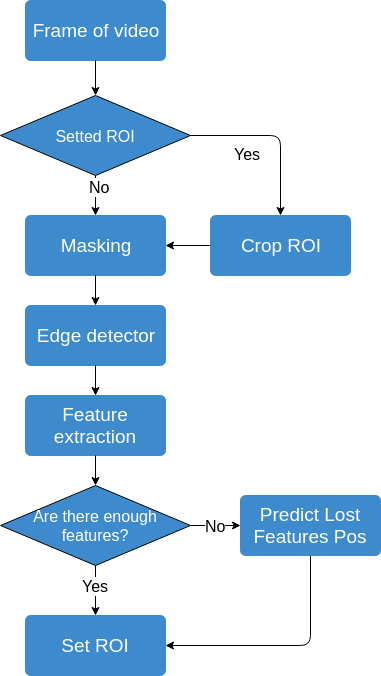
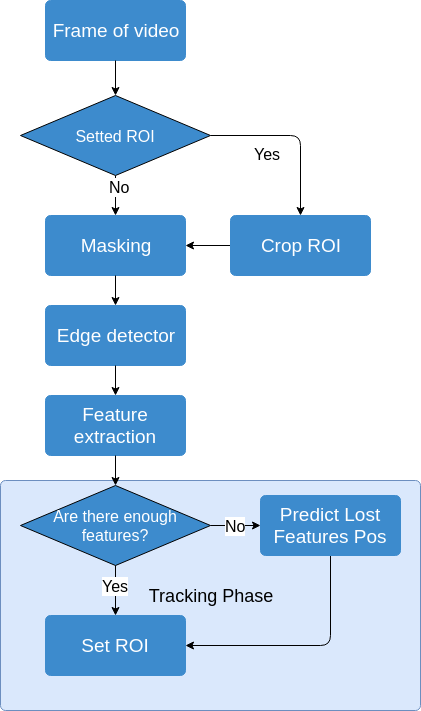
Updated report 2

diff --git a/reports/report2.tex b/reports/report2.tex
@@ -113,7 +113,7 @@ The approach consists on creating a mask from the grayscale transformed image ap
 In this stage of the pipeline we extract edges from the result of the previous stage. In order to do this, we applied \textbf{Scharr operators} on \textit{x} and \textit{y} axis (as described in algorithm 2); Scharr is the result from Sobel algorithm minimizing weighted mean squared angular error in Fourier domain.
 %% TODO: Gerson
 \begin{algorithm}
-\caption{Edge detection 2}
+\caption{Edge detection}
 \begin{algorithmic}[1]
 \State $axis_x   = \textit{Scharr}(masked, 1, 0)$
 \State $axis_x   = \textit{Abs}(axis_x)$
@@ -129,12 +129,18 @@ In this stage of the pipeline we extract edges from the result of the previous s
 The last stage consist of extracting the features needed for the calibration from the edges detected in the previous stage. We used OpenCV's \textbf{SimpleBlobDetector} that apply an extra thresholding on image, applies the findContours algorithm calculating their centers, groups centers of several images by their coordinates in blobs, finally, estimates the final centers of blobs. For detecting only pattern blobs, we had to apply similar heuristics to avobe (color blobs, area, aspect ratio, and convexity of points) specified in \textit{Algorithm 3}.
 \\
 \\
-Also, in this stage we recognized the order of features detected. We started calculating the center of pattern given by the average coordinates of all features, then we computed features which are located in the corners of the pattern given by the farthest features from the center point. Finally, we detected the intermediate points, using informations of distances between lines that pass through two corners and rest of points; we used this information to give a number to every point in pattern.
+Also, in this stage we recognized the order of features detected. We started calculating the center of pattern given by the average coordinates of all features, then we computed features which are located in the corners of the pattern given by the farthest features from the center point. Next, we detected the vertical border points, selecting the nearest point to the line that pass through two corners. Similarly, we used border points to recognize the horizontal strips of points.
+\\
+\\ 
+Finally, we used this information to give an ID number to every key point in pattern and store their location to track in next phase.
+\\
+\\
+It should be noted that we only do recognition of features once, in next frames we only will extract features using \textit{SimpleBlobDetector} and track key points result in next step.
 \\
 \\
 %% TODO: Gerson
 \begin{algorithm}
-\caption{Feature extraction 2}
+\caption{Feature extraction}
 \begin{algorithmic}[1]
 \State $\textit{Set up detector parameters}$
 \State $\textit{SimpleBlobDetector}(params)$
@@ -147,8 +153,17 @@ Also, in this stage we recognized the order of features detected. We started cal
 \end{algorithmic}
 \end{algorithm}
 
+\subsection{Tracking}
+To track Feature Points extracted in previous phase, we compared stored keyPoints of the last frame and the new Keypoints of the current frame, we stored new positions using a range of movement and a delta that represents speed in movement between frames.
+\\
+\\
+Also, when not all keypoints are detected in previous phase, we try to predice the position of the lost points using neighbors information (position and speed).
+\\
+\\
+
+
 \section{Results}
-We implemented the pipeline using the \textbf{OpenCV} library. The following images show some results of applying both approaches to a video recording.
+We implemented the pipeline using the \textbf{OpenCV} library. The following images show some results of applying the approach to a video recording.
 
 \begin{figure}[H]
 \centering
